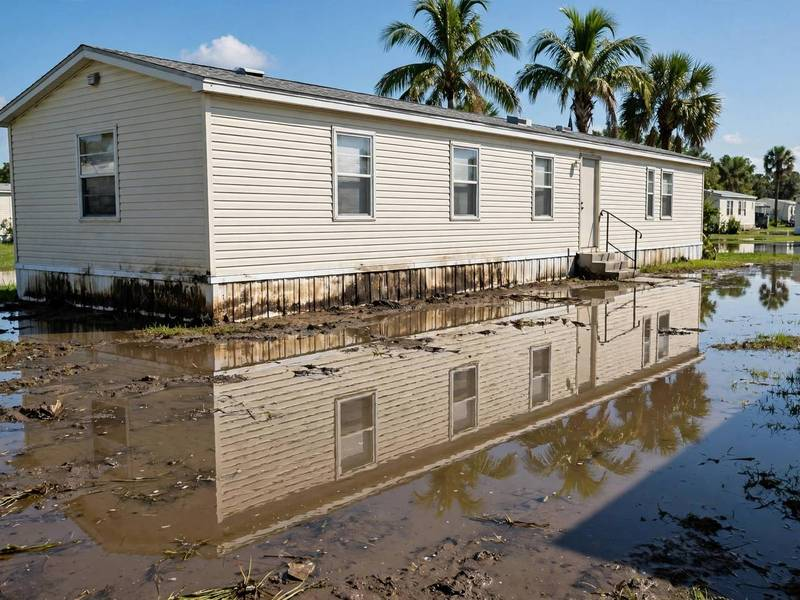
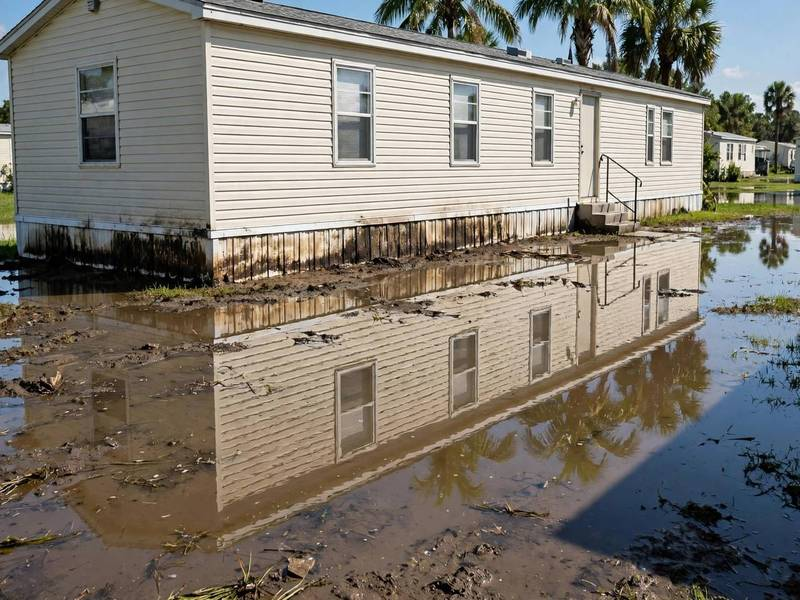
Cycle 5 optimization (local only) — mobile-home hero re-crop (damage visible on mobile, nets CLEAR), 2 orphan cards deleted (95,117 B, doc has 15 H3s), process 400w variants (homepage @390 -89,840 B), WebPage.image ImageObject, CLS overrides verified exact (carried P3); independent re-verification R

diff --git a/data/media.php b/data/media.php
@@ -113,8 +113,17 @@ $PAGE_IMG = [
         'card' => ['file' => 'card-structural-drying-apopka.jpg', 'alt' => 'Structural Drying in Apopka'],
         'hero' => ['file' => 'structural-drying-apopka.jpg', 'alt' => 'Air movers and a dehumidifier drying a wet living room in Apopka, FL'],
     ],
+    // CYCLE 5 STAGE 2 (2026-11-14): the wet-flooring card files were
+    // DELETED — declared but never served (wet-flooring is an 'also'
+    // link under the doc homepage tab's combined H3 "Structural Drying
+    // and Wet Flooring", which has ONE shared body paragraph already
+    // serving the structural-drying card; no standalone homepage-tab
+    // H3/body exists for a separate card, so wiring one would duplicate
+    // the shared paragraph or import inner-tab copy. Same mechanism +
+    // same resolution as the C4 mold-inspection orphan deletion. The
+    // service stays linked from the homepage via the parent card's
+    // closing sentence. Hero untouched.
     '/wet-flooring-water-damage' => [
-        'card' => ['file' => 'card-wet-flooring-water-damage-apopka.jpg', 'alt' => 'Flooded Carpet and Wet Floor Cleanup in Apopka'],
         'hero' => ['file' => 'wet-flooring-water-damage-apopka.jpg', 'alt' => 'Worker in rubber boots brushing muddy water off a concrete floor in Apopka, FL'],
     ],
     '/mobile-home-water-damage' => [
@@ -129,8 +138,16 @@ $PAGE_IMG = [
         'card' => ['file' => 'card-leak-detection-apopka.jpg', 'alt' => 'Leak Detection in Apopka'],
         'hero' => ['file' => 'leak-detection-apopka.jpg', 'alt' => 'Technician aiming a thermal imaging camera at a damp wall in a home in Apopka, FL'],
     ],
+    // CYCLE 5 STAGE 2 (2026-11-14): the insurance-claim-help card
+    // files were DELETED — declared but never served (insurance-claim
+    // help is an 'also' link under the doc homepage tab's combined H3
+    // "Leak Detection and Insurance Claim Help", one shared body
+    // paragraph already serving the leak-detection card; no standalone
+    // homepage-tab H3/body exists for a separate card). Same mechanism
+    // + same resolution as the C4 mold-inspection orphan deletion. The
+    // service stays linked from the homepage via the parent card's
+    // closing sentence. Hero untouched.
     '/water-damage-insurance-claim-help' => [
-        'card' => ['file' => 'card-water-damage-insurance-claim-help-apopka.jpg', 'alt' => 'Water Damage Insurance Claim Help in Apopka'],
         'hero' => ['file' => 'water-damage-insurance-claim-help-apopka.jpg', 'alt' => 'Inspector in a hard hat holding a clipboard while documenting a home inspection in Apopka, FL'],
     ],
     // New routes (tabs 20..25, full-content rebuild 2026-11-12). Hero only;
@@ -213,7 +230,7 @@ function srcset_attr($img, $kind) {
         'card' => '(max-width: 640px) 348px, 387px',
         'process' => '(max-width: 640px) 348px, 598px',
     ][$kind] ?? null;
-    $variantWidths = ['hero' => [800], 'card' => [400], 'process' => [600]][$kind] ?? null;
+    $variantWidths = ['hero' => [800], 'card' => [400], 'process' => [400, 600]][$kind] ?? null;
     if ($sizes === null || $variantWidths === null) return '';
     $dir = __DIR__ . '/../assets/img/';
     $main = @getimagesize($dir . $img['file']);

diff --git a/includes/functions.php b/includes/functions.php
@@ -510,13 +510,17 @@ function ld_webpage($canonical, $title, $aboutId = null, $imageUrl = null, $desc
     if ($mainEntityId !== null) $out['mainEntity'] = ['@id' => $mainEntityId];
     if ($aboutId !== null) $out['about'] = ['@id' => $aboutId];
     if ($imageUrl !== null) {
-        $out['image'] = $imageUrl;
+        // Cycle 5 U-1: WebPage.image as an ImageObject with the
+        // already-known dimensions (same pattern as Article.image,
+        // Cycle 4 P3-2). primaryImageOfPage keeps the same object.
         if ($imageMeta !== null && isset($imageMeta['width'], $imageMeta['height'])) {
             $imgObj = ['@type' => 'ImageObject', 'url' => $imageUrl,
                 'width' => (int) $imageMeta['width'], 'height' => (int) $imageMeta['height']];
             if (!empty($imageMeta['alt'])) $imgObj['caption'] = $imageMeta['alt'];
+            $out['image'] = $imgObj;
             $out['primaryImageOfPage'] = $imgObj;
         } else {
+            $out['image'] = $imageUrl;
             $out['primaryImageOfPage'] = $imageUrl;
         }
     }

diff --git a/PROGRESS.md b/PROGRESS.md
@@ -541,3 +541,32 @@ Source: Google Doc 1LfF_CNNyium0TldmxA3no6Wv_nFZFyPm8bok5MAlKGY (homepage only, 
   closed-by-default (3,066 answer words), contact form fields.
 - STOP RULE: Cycle 4 found real measured improvements, so cycling continues.
   Next cycle would need a fresh full round to find anything left.
+
+## 2026-11-14 ~12:05 PKT — CYCLE 5 STARTED (coordinator e2fbc087)
+- Starting state verified: main 6893d19, gh-pages f832a17, trees clean, PHP 8.3.6 + mbstring OK.
+- Stage 1 auditors dispatched (read-only, parallel): images d55aebd7, SEO+schema 71ca65d0, content+UX 85968e45. Findings: qa/FINDINGS-OPT-C5-*.md.
+
+## 2026-11-14 ~12:35 PKT — CYCLE 5 STAGE 1 CLOSED + ADJUDICATED (coordinator e2fbc087)
+- Stage 1 totals (all findings verified on disk): Images P1 0/P2 0/P3 5; SEO P1 0/P2 0/P3 2; Schema P1 0/P2 0/P3 0; Content+UX P1 0/P2 3 (1 actionable + 2 held)/P3 3.
+- Key findings: C5-1 (P2 NEW) mobile-home hero shows no damage on mobile (file correct, damage hidden behind form card on mobile); Images P3-1 — 2 new distinct cards declared but never served (85,117 B, home grid iterates only 15 top-level services); Images P3-2 — process 400w variants would save ~91,975 B (50%) @390; SEO P3-1 — slow-4G CLS residual re-measured, stable max 0.04660 (commercial), home 0.07787 in 1 of 3 runs — Cycle 4 fix held exactly on its 4 A/B routes but the post-fix full sweep (first ever) shows more routes shifting (wrap boundary moved); no measurable-and-safe further reduction found, keep as carried P3; Schema 0 problems, 2 validators 0 errors 25/25; content word-diff 0, 25/25 FULL.
+- Stage 2 brief: qa/C5-STAGE2-BRIEF-2026-11-14.md (5 fixes: mobile-home re-crop, wire 2 cards into grid or delete, process 400w variants, CLS verify-only-no-blind-retune, WebPage.image ImageObject conditional; opportunistic flood/emergency re-crops only if source allows). Stage 2 fix agent 0f7ad546 dispatched. HELD: titles, FAQ, contact form. No commit yet.
+
+## 2026-11-14 ~13:05 PKT — CYCLE 5 STAGE 2 DONE (fix agent 0f7ad546, LOCAL ONLY, not committed)
+- FIXED: (1) C5-1 mobile-home hero re-cropped from the same C4 source — water now starts file row ~411 (was ~480, exactly at the mobile form-card top); nets CLEAR at install (md5 0/37,089 files, aHash 0 flags ≤40, closest 47, MAD64 50.85–63.54); mobile render verified: muddy floodwater + reflection visible above the form card, skirting between intro lines; desktop holds (roof + water). md5 5877105f… → 8a2076c6…, EXIF 0. (2) 2 orphan cards resolved by DELETE (not wiring): doc homepage tab has 15 H3s, wet-flooring + insurance are `also` links under combined H3s with one shared body paragraph each — no standalone H3/body exists, same mechanism as C4 mold-inspection deletion; 4 files deleted (95,117 B — correction: C5's "85,117 B" is a 10,000 B arithmetic slip), declarations removed, both services still text-linked from homepage. (3) Process 400w variants: 8 files, 93,904 B; srcset process [400,600]; @390 serves 400w (1.15×), @1280 keeps 600w; homepage @390 image weight 517,150 → 427,310 B (−89,840 B). (4) Schema U-1: WebPage.image now ImageObject (same pattern as Article.image); both validators re-run 0 errors.
+- NOT FIXED / CARRIED: CLS P3-1 — overrides verified exactly correct from the real woff2 metrics on disk (Fraunces 964/1956/510, Inter 1118/1984/494; size-adjust 95.19%/103.14%, ascent 102.74%/93.93%, descent 26.79%/23.39% all recompute exactly); NO re-tune, no font-display:optional, no subsetting. Fresh 2-run Slow-4G sweep reproduces C5 byte-identical on 24/25 routes (home r1 0.07766 vs 0.07787 — same run-dependent spike, 0 in r2); stable max commercial 0.04660; unthrottled CLS 0 on 25/25 both widths. Flood card sign/tape + emergency headless card left as-is (no source allows a re-crop, no replacement at hand); hurricane hero kept (Tenerife, honest alt).
+- VERIFIED: word-diff 0 mismatches on 25/25 (edited vs pristine 6893d19 worktree); crawl 25/25 200, H1=1, 24/24 slash→308 (NoRedirect opener), 0 broken images, sitemap 25 locs / 48 image:loc; assets/img 104 files, 6,197,421 B (net +5,791 B). HELD untouched: titles, FAQ, contact form. Findings: qa/FINDINGS-OPT-C5-STAGE2-2026-11-14.md. Servers 8917 + 8995 left running for re-verification. Awaiting coordinator's independent re-verification + commit.
+
+## 2026-11-14 ~13:00 PKT — CYCLE 5 STAGE 2 DONE, VERIFIER DISPATCHED (coordinator e2fbc087)
+- Stage 2 fixes verified on disk by coordinator (git status/diff/md5): mobile-home hero re-crop md5 8a2076c6… (nets CLEAR at install, EXIF 0, 800w regenerated); 4 card files deleted (95,117 B total — correction: not 85,117 B, the finding's own four sizes sum to 95,117) + media.php declarations removed, doc homepage has exactly 15 service H3s so wiring was rejected; 8 process 400w variants added, srcset [400, 600], homepage @390 517,150 → 427,310 B (−89,840 B); WebPage.image ImageObject, both validators 0 errors post-fix; CLS overrides verified exact vs real woff2 metrics (fontTools), NO re-tune, carried P3 (stable max 0.04660, unthrottled 0); flood/emergency cards left as-is (opportunistic, no source). Word-diff 0 on 25/25, crawl 25/25 200, 24/24 slash→308 (NoRedirect), sitemap 25/48. Findings: qa/FINDINGS-OPT-C5-STAGE2-2026-11-14.md.
+- Independent re-verifier 3e907c71 dispatched (fresh eyes, verify-only, findings qa/FINDINGS-OPT-C5-VERIFY-2026-11-14.md). NOTHING committed yet; main still 6893d19.
+
+## 2026-11-14 ~14:00 PKT — CYCLE 5 INDEPENDENT RE-VERIFICATION CLOSED: READY (P1 0 / P2 0 / P3 2) (verifier 3e907c71)
+- VERDICT READY. All 5 Stage 2 fixes verified fresh on own servers (edited 8977, pristine 6893d19 worktree 8978, router `index.php` — plain `php -S -t .` 404s sitemap/inner routes, caught + restarted before measuring): re-crop md5 8a2076c6… viewed full-size (water ~row 411, skirting + muddy waterline visible above the form card on mobile, side-by-side vs pristine proves the change; desktop holds); 2 cards deleted (0 refs sitewide, homepage still 15 cards, both services text-linked, doc has exactly 15 H3s); process 400w served @390 / 600w @1280, homepage @390 weight 427,310 B (−89,840 B exact); CLS overrides recompute exactly from woff2 metrics, fresh 2-run slow-4G sweep byte-identical (stable max commercial 0.04660, home spike 0.07766 in 2/2 runs, unthrottled CLS 0 on 25/25); WebPage.image ImageObject 25/25, both validators 0 errors / 0 warnings-or-notes; word-diff 0/25, crawl 25/25 200, H1 1, canonicals self, sitemap 25 + 48 image:loc, 24/24 slash→308 (NoRedirect), 0 broken links/images, 404 noindex + literal, FAQ 128 visible, 0 hidden; overflow 0 at 320/390/768/1280/1920, Button 2 in view 25/25, breadcrumb 26px, Why-grid last card spans full width. Nets CLEAR on all 10 new/changed files (md5 0/36,552 files; aHash flags d16 32/35/41 adjudicated DIFFERENT by full-size side-by-side + MAD64; EXIF 0; no new Pexels ID).
+- P3s: (1) carried slow-4G CLS residual (stable max 0.04660; home spike 4 of 7 runs on record, worst 0.07766 < 0.1); (2) NEW wording correction — Stage 2's "home's reflection visible above the form card" does not reproduce (reflection sits below the form cutoff); the P2 fix itself is real, only the sentence should not be quoted. Flood/emergency cards + hurricane hero carried as-is. Pack still the Cycle 4 pack — skipped per brief.
+- Findings: qa/FINDINGS-OPT-C5-VERIFY-2026-11-14.md. NOTHING committed, pushed, or deployed by the verifier; no token used. Servers 8977 + 8978 left running.
+
+## 2026-11-14 ~13:35 PKT — CYCLE 5 CLOSED (coordinator e2fbc087) — READY (P1 0 / P2 0 / P3 2)
+- Independent re-verification: qa/FINDINGS-OPT-C5-VERIFY-2026-11-14.md — VERDICT READY, PROBLEMS 2 (P1 0 / P2 0 / P3 2). All 5 Stage 2 fixes verified fresh from the verifier's own servers (edited 8977, pristine 6893d19 worktree 8978): mobile-home re-crop md5 8a2076c6… exact, water ~row 411, skirting + muddy waterline visible on mobile above the form card; 2 cards deleted (0 refs sitewide, homepage still 15 cards, both services text-linked, doc re-checked: exactly 15 homepage H3s); 8 process 400w variants serve 400w @390 / 600w @1280, homepage @390 427,310 B exact; CLS overrides recompute exact from real woff2 metrics, 2-run slow-4G sweep byte-identical, stable max 0.04660, unthrottled 0; WebPage.image ImageObject 25/25, both validators 0 errors/warnings. Nets CLEAR on all 10 new/changed files (md5 0/36,552; aHash flags adjudicated DIFFERENT, MAD64 88.65/59.57/16.54; EXIF 0). Word-diff 0 on 25/25, crawl 25/25 200, 24/24 slash→308 (NoRedirect), sitemap 25 + 48 image:loc.
+- CORRECTION (verifier P3-2, wording only — no site change): Stage 2 §1.4 overstates the hero result — "the home's reflection is visible in the band directly above the form card" does NOT reproduce; the reflection sits below the form cutoff. What IS visible: stained skirting + muddy floodwater edge. Do NOT quote the reflection sentence.
+- Carried P3s: slow-4G CLS residual (stable max 0.04660; home spike 0.07766, run-dependent, 4 of 7 runs on record; all < 0.1). HELD: titles (24/25 H1-derived), FAQ closed (3,066w), contact form fields. Flood/emergency cards + Tenerife hurricane hero carried as-is.
+- What improved (numbers): homepage @390 image weight 517,150 → 427,310 B (−89,840 B); 95,117 B dead card files deleted; mobile-home hero now shows damage on mobile (was pristine on mobile). Zero visible words changed; titles/FAQ-open/contact-form HELD; 44px padding DECLINED.
